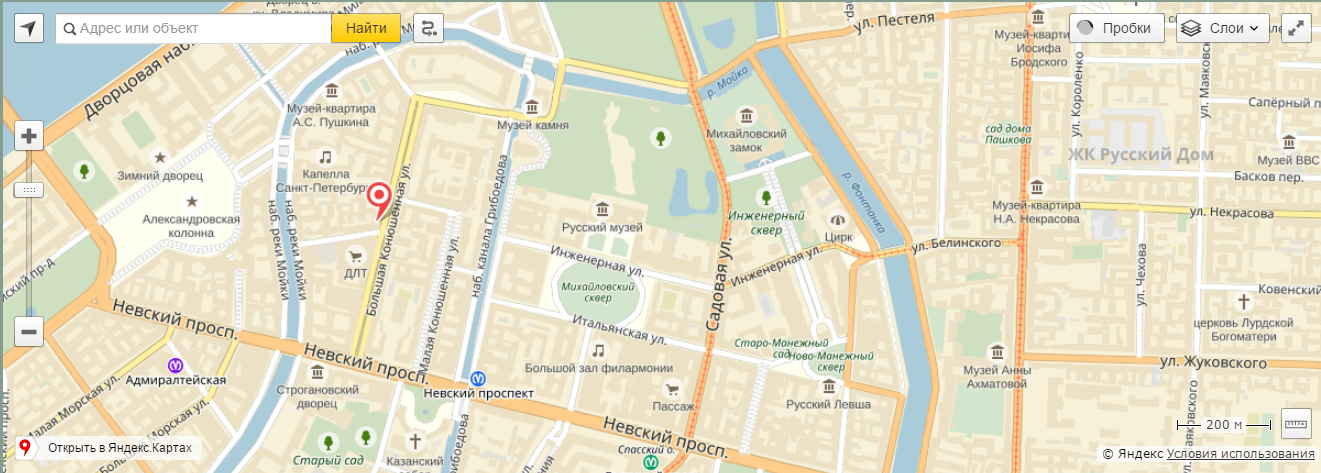
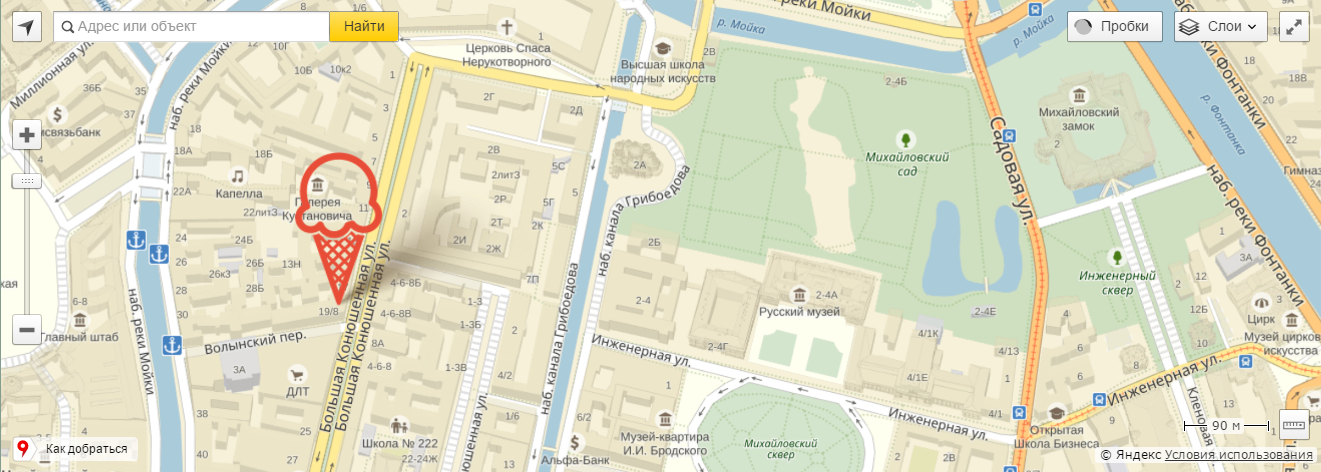
добавила метку на карту, пофиксила мелкие баги

diff --git a/javascript/map.js b/javascript/map.js
@@ -1,31 +1,21 @@
-ymaps.ready(init); // карта соберется после загрузки скрипта и элементов
-   var myMap; // заглобалим переменную карты чтобы можно было ею вертеть из любого места
-   function init () { // функция - собиралка карты и фигни
-       myMap = new ymaps.Map("map", { // создаем и присваиваем глобальной переменной карту и суем её в див с id="map"
-            center: [55.76, 37.64], // ну тут центр
-            behaviors: ['default', 'scrollZoom'], // скроллинг колесом
-            zoom: 10 // тут масштаб
-       });
-       myMap.controls // добавим всяких кнопок, в скобках их позиции в блоке
-            .add('zoomControl', { left: 5, top: 5 }) //Масштаб
-            .add('typeSelector') //Список типов карты
-            .add('mapTools', { left: 35, top: 5 }) // Стандартный набор кнопок
-            .add('searchControl'); // Строка с поиском
-        }
+ymaps.ready(init);
+var myMap,
+    myPlacemark;
 
-var myPlacemark0 = new ymaps.Placemark([55.752577,37.632134], { // Создаем метку с такими координатами и суем в переменную
-balloonContent: 'Заголовок метки 1Немного инфы о том, о сем. Лорем ипсум чото там.' // сдесь содержимое балуна в формате html, все стили в css
-	}, {
-	iconImageHref: '../img/pin.png', // картинка иконки
-	iconImageSize: [64, 64], // размер иконки
-	iconImageOffset: [-32, -64], // позиция иконки
-	balloonContentSize: [270, 99], // размер нашего кастомного балуна в пикселях
-	balloonLayout: "default#imageWithContent", // указываем что содержимое балуна кастомная херь
-	balloonImageHref: 'img/ballon1.png', // Картинка заднего фона балуна
-	balloonImageOffset: [-65, -89], // смещание балуна, надо подогнать под стрелочку
-	balloonImageSize: [260, 89], // размер картинки-бэкграунда балуна
-	balloonShadow: false
-});
-/* Добавляем метки на карту */
-myMap.geoObjects
-	.add(myPlacemark0);
+function init(){
+    myMap = new ymaps.Map("map", {
+        center: [59.939334, 30.329320],
+        zoom: 16
+    });
+
+    myPlacemark = new ymaps.Placemark([59.938631, 30.323055], {
+        hintContent: "Gllacy Shop"
+    }, {
+        iconLayout: "default#image",
+        iconImageHref: "images/pin.png",
+        iconImageSize: [218, 142],
+        iconImageOffset: [-40, -142]
+    });
+
+    myMap.geoObjects.add(myPlacemark);
+}

diff --git a/index.html b/index.html
@@ -7,6 +7,7 @@
     <link href="css/normalize.css" rel="stylesheet">
     <link href="css/animate.css" rel="stylesheet">
     <link href="css/style.css" rel="stylesheet">
+    <script src="https://api-maps.yandex.ru/2.1/?lang=ru-RU" type="text/javascript"></script>
   </head>
 <!-- <script src="http://pixp.fdrv.guru/pixp.js" type="text/javascript"></script> -->
   <body>
@@ -14,7 +15,6 @@
     <input class="slide-checked" type="radio" id="btn-2" name="toggle">
     <input class="slide-checked" type="radio" id="btn-3" name="toggle">
   <div class="site-wrapper">
-
     <header class="main-header">
       <div class="container">
         <div class="header-logo">
@@ -86,7 +86,6 @@
         </div>
       </div>
     </header>
-
     <main class="container">
       <div class="slider">
         <div class="slide" id="slide-1">
@@ -193,11 +192,8 @@
         </div>
       </div>
       <div class="contact-us">
-        <!-- <img class="map" src="images/map-google.png" width="1200" height="428" alt=""> -->
-        <!-- <div class="map"> -->
-          <!-- <iframe src="https://www.google.com/maps/embed?pb=!1m18!1m12!1m3!1d6722.6158352154525!2d30.331387589180455!3d59.93802195078364!2m3!1f0!2f0!3f0!3m2!1i1024!2i768!4f13.1!3m3!1m2!1s0x4696310fca5ba729%3A0xea9c53d4493c879f!2z0JHQvtC70YzRiNCw0Y8g0JrQvtC90Y7RiNC10L3QvdCw0Y8g0YPQuy4sIDE5LCDQodCw0L3QutGCLdCf0LXRgtC10YDQsdGD0YDQsywgMTkxMTg2!5e0!3m2!1sru!2sru!4v1481230795066" width="1200" height="428" frameborder="0" style="border:0" allowfullscreen></iframe> -->
-        <!-- </div> -->
-        <div id="map"></div>
+        <img class="map" src="images/map.png" width="1200" height="428" alt="">
+        <div id="map" style="width: 1200px; height: 430px"></div>
         <div class="contacts">
           <p>
             Адрес главного офиса и<br>
@@ -212,7 +208,6 @@
         </div>
       </div>
     </main>
-
     <footer class="main-footer">
       <div class="container">
         <div class="footer-social">
@@ -239,7 +234,6 @@
         </div>
       </div>
     </footer>
-
   </div>
 
     <div class="modal-content-feedback animated bounce">
@@ -261,15 +255,11 @@
         <input class="btn-light-bg" type="submit" value="Отправить">
       </form>
     </div>
-
     <div class="modal-overlay"></div>
     <div class="modal-overlay-transparent"></div>
 
-    <!-- <script src="javascript/slider.js"></script> -->
+    <script src="javascript/slider.js"></script>
     <script src="javascript/scripts.min.js"></script>
     <script src="javascript/index.js"></script>
-    <script src="http://api-maps.yandex.ru/2.0/?load=package.full&lang=ru-RU"></script>
-    <script src="javascript/map.js"></script>
-
 
   </body>

diff --git a/javascript/index.js b/javascript/index.js
@@ -126,53 +126,25 @@ email_subscribe_input.addEventListener("blur", function(event) {
 
 
 
-// map-pin
+// map
+ymaps.ready(init);
+var myMap,
+    myPlacemark;
 
-// function initMap() {
-//   var map = new google.maps.Map(document.querySelector(".map"), {
-//     zoom: 15,
-//     center: {lat: 59.9387942, lng: 30.3224866},
-//   });
-//
-// var image = "../images/pin.png";
-// var gllasyMarker = new google.maps.Marker({
-//   position: {lat: 59.9387942, lng: 30.3224866},
-//   map: map,
-//   icon: image,
-// });
-// }
+function init(){
+    myMap = new ymaps.Map("map", {
+        center: [59.939334, 30.329320],
+        zoom: 16
+    });
 
-// var map;
-// function initMap() {
-//   map = new google.maps.Map(document.querySelector(".google-map"), {
-//     zoom: 16,
-//     center: new google.maps.LatLng(59.9387942, 30.3224866),
-//     type: "roadmap",
-//   });
-//
-//   var icon = "../images/pin.png";
-//
-//   var iconBase = "https://maps.google.com/mapfiles/kml/shapes/";
-//   var iconGllasy = "../images/pin.png";
-//   var icons = {
-//     gllasy: {
-//       icon: iconGllasy;
-//     },
-//   }
-//
-//   function addMarker(feature) {
-//     var marker = new google.maps.Marker({
-//       position: feature.position,
-//       icon: icon[feature.type].icon,
-//       map: map,
-//     });
-//   }
-//
-//   var feature = [
-//     {
-//       position: new google.maps.LatLng(59.9387942, 30.3224866),
-//       type: gllasy,
-//     }
-//   ];
-//
-// }
+    myPlacemark = new ymaps.Placemark([59.938631, 30.323055], {
+        hintContent: "Gllacy Shop"
+    }, {
+        iconLayout: "default#image",
+        iconImageHref: "images/pin.png",
+        iconImageSize: [218, 142],
+        iconImageOffset: [-40, -142]
+    });
+
+    myMap.geoObjects.add(myPlacemark);
+}

diff --git a/catalog.html b/catalog.html
@@ -119,9 +119,9 @@
           <p>Сортировка:</p>
           <select name="sorting-by" size="1">
             <option value="by-popular">по популярности</option>
-            <option value="by-popular">сначала недорогие</option>
-            <option value="by-popular">сначала дорогие</option>
-            <option value="by-popular">по жирности</option>
+            <option value="first-cheap">сначала недорогие</option>
+            <option value="first-expensive">сначала дорогие</option>
+            <option value="by-fatness">по жирности</option>
           </select>
         </div>
         <div class="filter-price">

diff --git a/css/style.css b/css/style.css
@@ -314,24 +314,6 @@ header {
   text-decoration: none;
 }
 
-.main-menu li > a::before {
-  content: "";
-  position: absolute;
-  bottom: 12px;
-  left: 13px;
-  right: 13px;
-  height: 1px;
-  background: rgba(255, 255, 255, 0.2);
-}
-
-.main-menu li.active > a:hover::before {
-  display: none;
-}
-
-.main-menu li.active > a::before {
-  display: none;
-}
-
 .main-menu li:hover > a {
   text-decoration: none;
   color: #000000;
@@ -482,7 +464,7 @@ header {
   background: #f8f7f4;
 }
 
-.user-panel-search:hover::before {
+.user-panel-search:hover::after {
   content: "";
   position: absolute;
   top: 7px;
